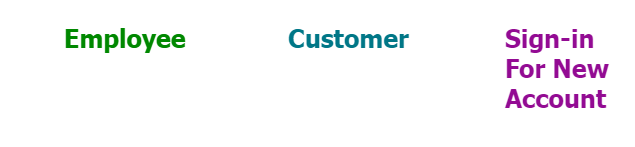
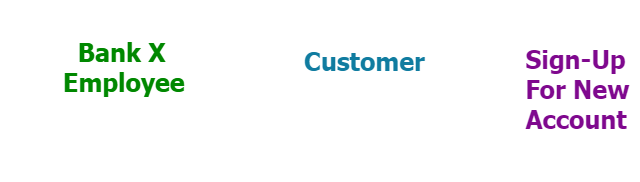
my part

diff --git a/Final Project Employee Portion Completed/views/loginforall.php b/Final Project Employee Portion Completed/views/loginforall.php
@@ -35,7 +35,7 @@
 						<td><a href=""><img src="../assets/signup.png" width="180px" height="180px" style="float: center" /></a><br><br></td>
 					</tr>
 					<tr>
-						<td colspan="6"><img src="../assets/titles.png" width="500px" height="100px" style="float: center" /></td>
+						<td colspan="6"><img src="../assets/titles.png" width="540px" height="150px" style="float: center" /></td>
 					</tr>
 
 				</table>
